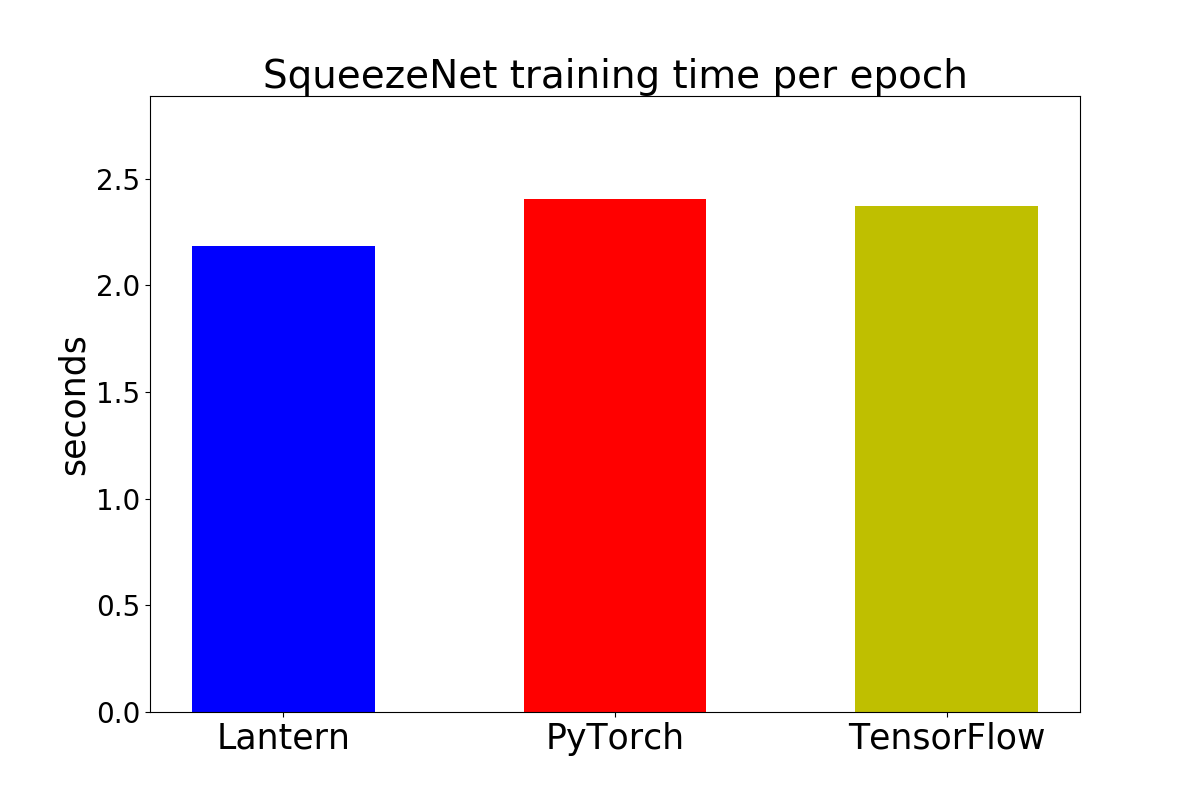
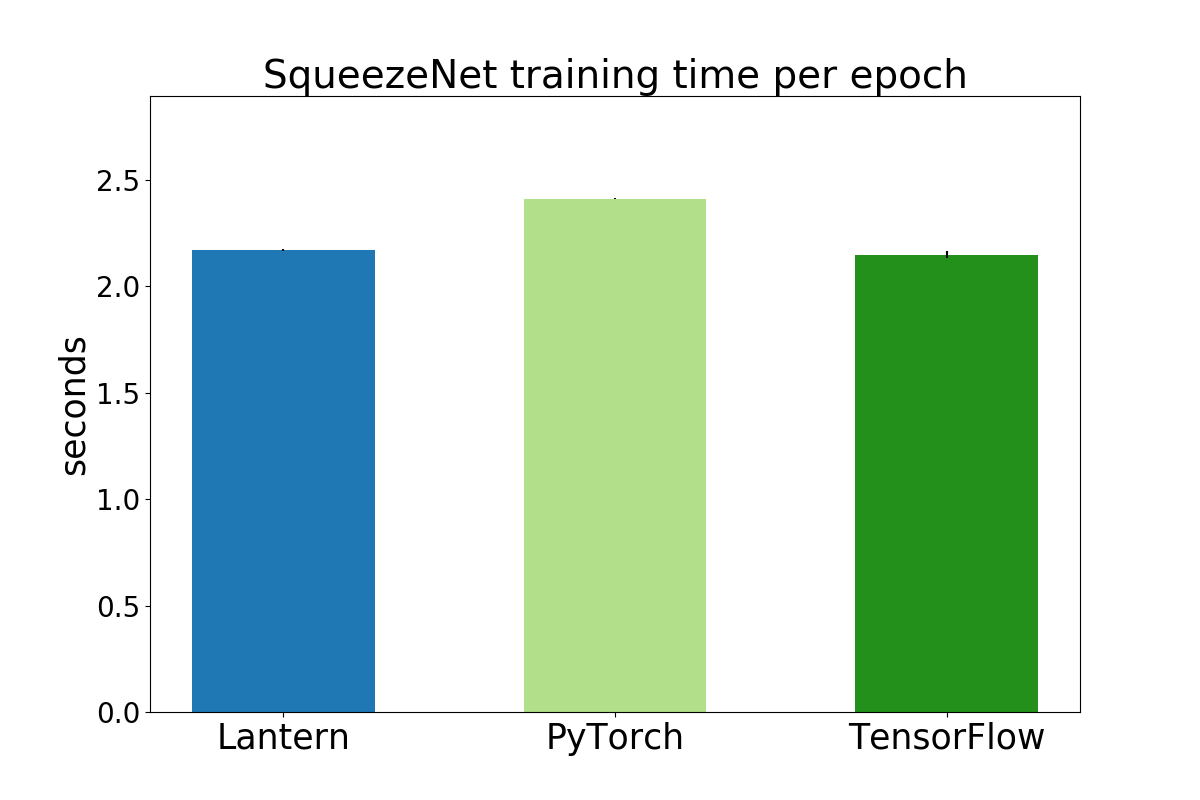
scripts for evaluation-icfp19

diff --git a/src/out/PLDI19evaluation/plot_stats.py b/src/out/PLDI19evaluation/plot_stats.py
@@ -1,0 +1,136 @@
+import os
+import numpy as np
+import matplotlib
+matplotlib.use('Agg')
+import pylab
+import matplotlib.pyplot as plt
+from os import listdir
+from os.path import isfile, join
+
+def get_data(filename):
+  #print("retrieving data from " + filename)
+  loss_save = []
+  with open(filename, 'r') as f:
+    for line in f:
+      line = line.rstrip()
+      if line.startswith("unit:"):
+        unit = line.split(':')[1]
+      elif line.startswith("run time:"):
+        runtime = line.split(':')[1].split()
+        assert(len(runtime) == 2)
+      elif len(line) > 0:
+        loss_save.append(float(line))
+  return [unit, runtime, loss_save]
+
+def getLabelFromFileName(filename):
+  return filename.split('.')[0].split('_')[1]
+
+def getColor(label):
+  if label == 'Lantern':
+    return '#1f78b4'
+  if label == 'PyTorch':
+    return '#b2df8a'
+  if label == 'TensorFlow':
+    return '#23901c'
+  if label == 'TensorFold' or label == 'TensorFold20' or label == 'TF20':
+    return '#23901c'
+  if label == 'DyNet' or label == 'DyNetB':
+    return '#a6cee3'
+  if label == 'DyNetNB':
+    return '#006600'
+  else:
+    print("NOTE: color not defined for label: %s" % label)
+
+def getOrder(label):
+  if label == 'Lantern':
+    return 1
+  if label == 'PyTorch':
+    return 2
+  if label.startswith('T'):
+    return 3
+  if label == 'DyNetNB':
+    return 4
+  if label == 'DyNetB' or label == 'DyNet':
+    return 5
+  else:
+    print("NOTE: order not defined for label: %s" % label)
+
+def plot(files, model):
+  # save dir
+  save_dir = 'save_fig/'
+  if not os.path.exists(save_dir):
+    os.makedirs(save_dir)
+
+  datas = {}
+  labels = set()
+  for file1 in files:
+    label = getLabelFromFileName(file1)
+    if label in datas:
+        datas[label].append(get_data(file1))
+    else:
+        datas[label] = [get_data(file1)]
+    labels.add(label)
+  labels = [i for i in labels]
+  labels = sorted(labels, key = lambda x: getOrder(x))
+  print(labels)
+
+  # accumulate data of loss
+  losses = []
+  for label in labels:
+    losses.append(datas[label][2])
+  # accumulate data of runtime
+  prepareTimes = []
+  prepStds     = []
+  loopTimes = []
+  loopStds  = []
+  for label in labels:
+    prepT = np.asarray([float(i[1][0]) for i in datas[label]])
+    loopT = np.asarray([float(i[1][1]) for i in datas[label]])
+    prepareTimes.append(prepT.mean())
+    prepStds.append(prepT.std())
+    loopTimes.append(loopT.mean())
+    loopStds.append(loopT.std())
+  print(loopTimes)
+  print(loopStds)
+
+  # get unit and other description
+  unit = datas[labels[0]][0][0]
+  print(unit)
+  if (unit == ' 1 epoch'):
+    steps = len(losses[0])
+    step_desc = "1 epoch"
+  else:
+    steps = len(losses[0]) - 1
+    temp = unit.split()
+    step_desc = str(int(temp[0]) * steps) + " " + temp[1] + "s"
+
+  # plot
+  N = len(labels)
+  fig, ax = plt.subplots()
+  if N == 2: width = 8
+  elif N == 3: width = 12
+  else: width = 16
+  fig.set_size_inches(width,8)
+  ind = np.arange(1, N+1)
+
+  ps = plt.bar(ind, loopTimes, yerr = loopStds,  width = 0.55)
+  for i in range(N):
+    ps[i].set_facecolor(getColor(labels[i]))
+  ax.set_xticks(ind)
+  ax.set_xticklabels(labels, fontsize = 25)
+  ax.tick_params(axis='y', labelsize = 20)
+  ax.set_ylim([0, max(loopTimes) * 1.2])
+  ax.set_ylabel("seconds", fontsize = 25)
+  if step_desc == "1 epoch":
+    ax.set_title("{} training time per epoch".format(model), fontsize = 28)
+  else:
+    ax.set_title("{} training time in {}".format(model, step_desc), fontsize = 28)
+  print("save plot at {}".format(save_dir + model + '.png'))
+  pylab.savefig(save_dir + model + '.png')
+
+if __name__ == "__main__":
+  import sys
+  model = sys.argv[1]
+  resultsDir = sys.argv[2]
+  allResults = [join(resultsDir, f) for f in listdir(resultsDir) if isfile(join(resultsDir, f))]
+  plot(allResults, model)
